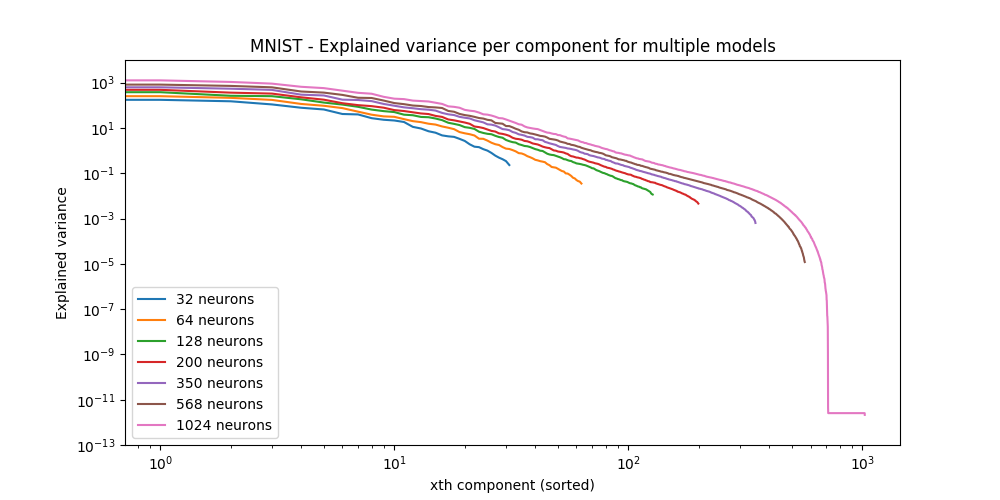
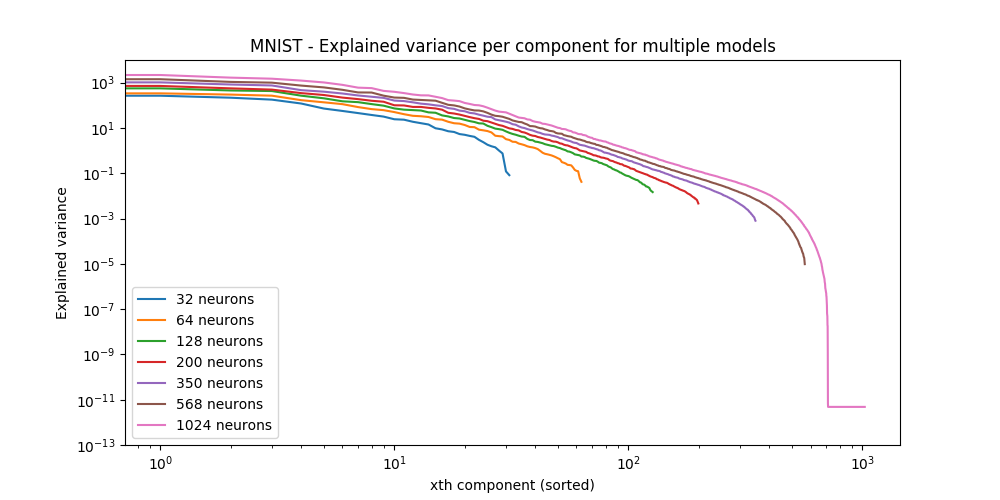
Fix an error in the calculation of activations
- data need to be zero centered to perform a PCA, it was not the case
before

Changed region(s): [[0.124, 0.15, 0.806, 0.45], [0.806, 0.81, 0.868, 0.84]]

diff --git a/pca_metric.py b/pca_metric.py
@@ -32,7 +32,7 @@ else:
     unwrap = wrap
 
 def init_models(count=REPLICATES):
-    return [wrap(MNIST_1h(s)) for s in [32, 64, 128, 200, 350, 568, 1024]]
+    return [wrap(MNIST_1h(s)) for s in [32, 64, 128, 200, 350, 568, 1024, 2048]]
 
 def save_model(model, id):
     with open('/tmp/model-%s.data' % id, 'wb+') as f:
@@ -46,7 +46,7 @@ def train(models, dl):
     criterion = nn.CrossEntropyLoss()
     optimizers = [Adam(model.parameters()) for model in models]
 
-    for e in range(0, 5):
+    for e in range(0, 10):
         print("Epoch %s" % e)
         for i, (images, labels) in enumerate(dl):
             print(round(i / len(dl) * 100))
@@ -64,7 +64,8 @@ def get_activations(model, loader):
     for images, labels in loader:
         images = wrap(Variable(images, volatile=True))
         outputs.append(model.partial_forward(images, False).data)
-    return torch.cat(outputs, 0)
+    result = torch.cat(outputs, 0)
+    return result - result.mean(0)
 
 def simplify_all(values, basis):
     D = torch.inverse(basis).mm(values.transpose(0, 1))
